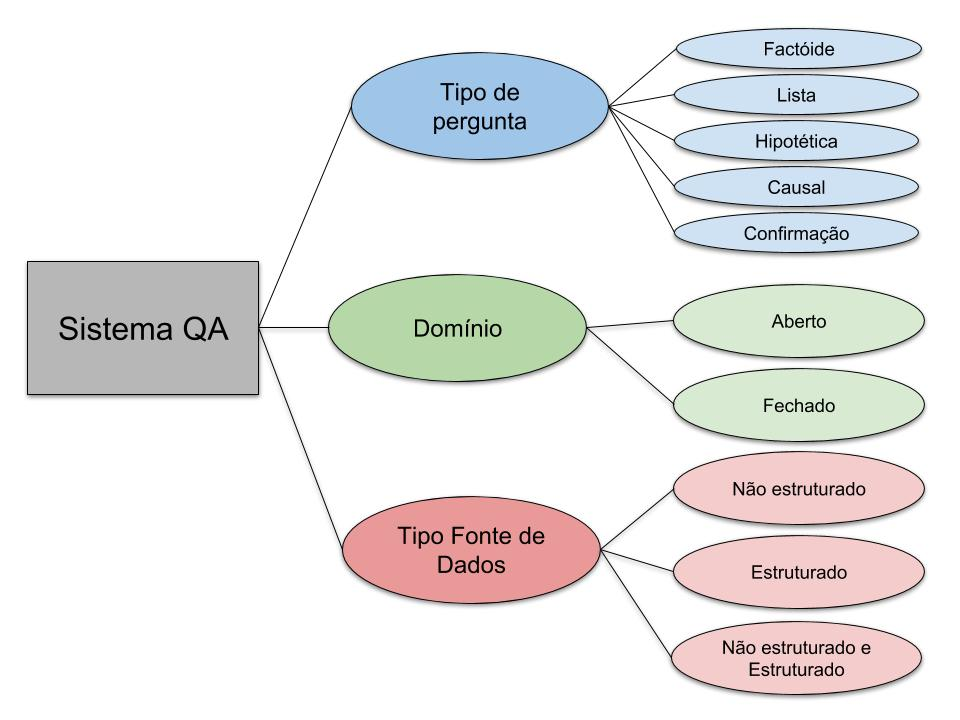
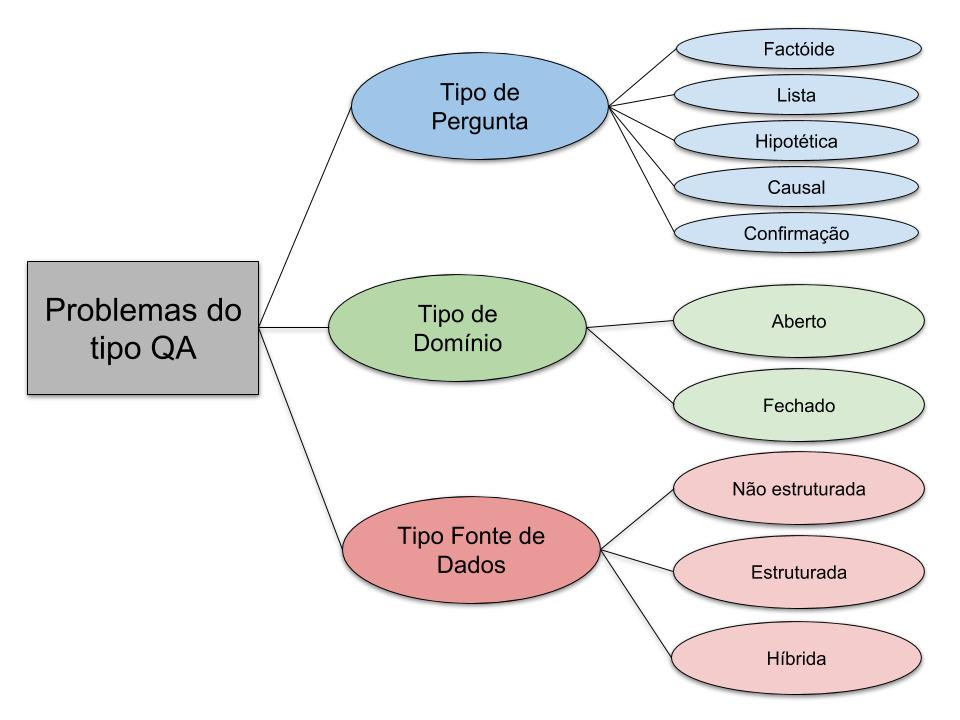
Updates from ShareLaTeX

diff --git a/main.tex b/main.tex
@@ -22,45 +22,74 @@
 
 \maketitle
 \begin{abstract}
-Apesar do advento de tecnologias não convencionais de bancos de dados (por exemplo, NoSQL), um grande volume de dados permanece armazenado em repositórios relacionais. Além disso, a necessidade de consumir dados de uma forma mais simples e amigável é exigida por usuários que desejam explorar suas informações com maior liberdade. A recente primavera das técnicas de Inteligência Artificial, com destaque para aquelas relacionadas à Processamento de Linguagem Natural, renovou as esperanças de obtenção de novos avanços nas interfaces de acesso a bancos de dados. Este trabalho apresenta um levantamento dos diferentes modelos de sistemas "Natural Language Interface to Database" (NLIDB), que são sistemas de consulta a bancos de dados relacionais à partir de pesquisas escritas em linguagem natural.
-
+Apesar do advento de tecnologias de bancos de dados não convencionais, por exemplo, NoSQL, um grande volume de dados permanece armazenado em repositórios relacionais. Além disso, a necessidade de consumir dados de uma forma mais simples e amigável é exigida por usuários que desejam explorar suas informações com maior liberdade. A recente primavera das técnicas de Inteligência Artificial, com destaque para aquelas relacionadas à Processamento de Linguagem Natural, renovou as esperanças de obtenção de novos avanços nas interfaces de acesso a bancos de dados. Este trabalho apresenta um levantamento dos diferentes modelos de sistemas "Natural Language Interface to Database" (NLIDB), que são sistemas de consulta a bancos de dados relacionais à partir de pesquisas escritas em linguagem natural.
 \end{abstract}
 
 \section{Introdução}
 
 Linguagem. Essa é uma das principais formas pela qual humanos expressam suas ideias, se comunicam e se inspiram \citep{harari2014sapiens}.\\
 
-Desde o surgimento dos computadores há o desejo de transferir a capacidade de comunicação às máquinas. Isso fica evidente através de computadores famosos do cinema, por exemplo, HAL-9000 \citep{hal9000}.\\
+Desde o surgimento dos computadores há o desejo de transferir a capacidade de comunicação às máquinas. 
+%Isso fica evidente através de computadores famosos do cinema, por exemplo, HAL-9000 \citep{hal9000}.\\
+
+VER MOTIVAÇÕES DE OUTROS TRABALHOS\\
 
 Um exemplo de tarefa que sempre se desejou transferir às máquinas é a capacidade de responder perguntas. Dentro da ciência da computação, a linha de estudo que investiga sistemas capazes de responder perguntas escritas em linguagem natural é chamada Question Answering (QA) \citep{hirschman2001natural}.\\
 
-Sistemas QA podem ser classificados de acordo com suas características. São exemplos de características de sistemas QA: domínio, tipo das perguntas suportadas e tipo de fonte de dados \citep{mishra2016survey, speech}.\\
+Problemas do tipo QA podem ser classificados de acordo com suas características, por exemplo: domínio das perguntas, tipo das perguntas e tipo das fontes de dados \citep{mishra2016survey, speech}.\\
 
-O domínio das perguntas pode ser aberto (ou geral) ou fechado (ou restrito). Sistemas com domínio aberto são sistemas que suportam diferentes domínios de informação, ou seja, não são específicos de um nicho de dados, por exemplo, dados de alunos de uma universidade. Por outro lado, sistemas com domínio fechado atendem um único escopo de informação.\\
+O domínio das perguntas pode ser aberto (geral) ou fechado (restrito). No caso do domínio aberto, as perguntas não são específicas de um nicho de conceitos ou entidades, elas são perguntas gerais. Por outro lado, no caso do domínio fechado, as perguntas são de um escopo determinado e restrito.\\
 
 Os tipos de perguntas podem ser factóide, lista, hipotética, causal e confirmação. O tipo factóide representa perguntas sobre fatos, por exemplo, "Quem é o presidente do Brasil?". O tipo lista pode ser visto como uma especialização do tipo factóide que suporta como resposta mais de um fato, por exemplo, "Quais foram os últimos 3 presidentes do Brasil?". O tipo hipotética considera uma pergunta baseada em um contexto hipotético, por exemplo, "O que aconteceria se ...". Nesse caso, não existem respostas precisas. O tipo causal não é uma pergunta relacionada a uma entidade específica mas são perguntas sobre explicações e elaborações, demandando uma maior capacidade de processamento de linguagem natural. Por fim, o tipo confirmação só admite perguntas que podem ser respondidas com sim ou não \citep{mishra2016survey}. Para o restante desse trabalho, os tipos de pergunta factóide e lista serão tratados como um único tipo e serão chamados de factóide.\\
 
 As tipos de fontes de dados podem ser estruturadas, não estruturadas ou estruturadas e não estruturadas. Um exemplo de fonte de dados estruturada é um banco relacional. Um exemplo de uma fonte não estruturada são arquivos textos. Sistemas que utilizam como fontes estruturadas e também não estruturadas formam um terceiro tipo.\\
 
-A figura \ref{fig:SistemaQA} apresenta uma visão gráfica das características de um Sistema QA apresentadas anteriormente.\\
+ESSE CARA É UM SURVEY DE UM JOURNAL  C Question Answering Systems: Survey and Trends DE 2015 MAS TEM 26 REFS. mas se concentra so na web\\
+
+A figura \ref{fig:SistemaQA} apresenta uma visão gráfica das características de problemas do tipo QA apresentadas anteriormente.\\
 
 %exemplo de figura
 \begin{figure}[h!]
 \centering
 \includegraphics[scale=0.3]{SistemaQA2.jpg}
-\caption{Características de um Sistema QA [REDESENHAR. FIGURA FEIA.]}
+\caption{Características de problemas do tipo QA [REDESENHAR. FIGURA FEIA.]}
 \label{fig:SistemaQA}
 \end{figure}
 
-Os tipos de fonte de dados têm forte influência sobre a arquitetura que será utilizada por uma solução para problemas de QA. De acordo com \citep{speech}, as soluções podem ser agrupadas em três tipos: "Information Retrieval" (IR), "Knowledge Based" (KB) ou NLIDB, e Híbridas (HIB), respectivamente para sistemas com fontes de dados não estruturadas, estruturadas e estruturadas + não estruturadas.\\
+Os tipos das fontes de dados acessadas têm forte influência sobre as arquiteturas que serão utilizadas na implementação dos sistemas que se propõem tratar problemas do tipo QA. De acordo com \citep{speech}, existem 3 principais paradigmas para tratar problemas do tipo QA: "Information Retrieval" (IR), "Knowledge Based" (KB) MORREU e PRECISO ENCAIXAR[ou NLIDB], e Híbridas (HIB), respectivamente para tipos de fontes de dados não estruturadas, estruturadas e estruturadas + não estruturadas.\\
 
-Apresentar os principais componentes da arquitetura de Sistemas IR \citep{kolomiyets2011survey}.\\
+O paradigma Information Retrieval (IR) ...\\
 
-Apresentar os principais componentes da arquitetura de Sistemas KB ou NLIDB\\
+São chamados de "Sistemas Question Answering Information Retrieval" (Sistemas QA-IR) os sistemas que se propõem tratar problemas do tipo QA e utilizam o paradigma IR para responder perguntas escritas em linguagem natural a partir de fontes de dados não estruturadas.\\
+
+Apresentar os principais componentes da arquitetura de Sistemas IR \citep{kolomiyets2011survey}. ACHEI ESSE ARTIGO QUE É DE 2017 E DE UM PERIÓDICO A1 (KNOWLEDGE-BASED SYSTEMS) COM APENAS 2 REFERÊNCIAS: A study about the future evaluation of Question-Answering systems (In this paper, we overview the main QA evaluations over free text, paying special attention to the changes encouraged at such campaigns). DAR UMA LIDA NELE!\\
+
+O paradigma Knowledge Based (KB) ...\\
+
+São chamados de "Sistemas Question Answering Knowledge Based" (Sistemas QA-KB) os sistemas que se propõem tratar problemas do tipo QA e utilizam o paradigma KB para responder perguntas escritas em linguagem natural a partir de fontes de dados estruturadas. FALAR DA CONVERSÃO PARA FORMA LÓGICA\\
+
+Apresentar os principais componentes da arquitetura de Sistemas KB\\
+
+Uma especialização dos sistemas QA-KB são os sistemas Natural Language Interface to Database (NLIDB) que respondem perguntas escritas em linguagem natural a partir de bases de dados estruturadas relacionais [REF]. O estudo dos sistemas NLIDB é o foco desse trabalho.\\
+
+O paradigma Híbrido (HIB) ...\\
+
+São chamados de "Sistemas Question Answering Híbridos" (Sistemas QA-HIB) os sistemas que se propõem tratar problemas do tipo QA e utilizam o paradigma HIB para responder perguntas escritas em linguagem natural a partir de fontes de dados estruturadas e não estruturadas.\\
 
 Apresentar os principais componentes da arquitetura de Sistemas Híbridos.\\
 
-O objetivo desse trabalho é fazer um levantamento dos sistemas de QA que acessam bases de dados estruturadas (Sistemas KB ou NLIDB) para responder as perguntas do tipo factóide informadas pelos usuários em linguagem natural, independente do tipo de domínio (aberto ou fechado). A seção \ref{sistemasKB} falará sobre os diferentes tipos de sistemas QA KB. A seção \ref{exemplosSistemasKB} falará sobre exemplos de sistemas QA KB. Por fim, a seção \ref{conclusoes} apresenta as conclusões.
+A figura \ref{fig:TiposDeSistemasQA} apresenta uma visão consolidada dos diferentes tipos de sistemas QA discutidos até agora.\\
+
+\begin{figure}[h!]
+\centering
+\includegraphics[scale=0.3]{TiposDeSistemasQA.jpg}
+\caption{Tipos de sistemas QA [REDESENHAR. FIGURA FEIA.]}
+\label{fig:TiposDeSistemasQA}
+\end{figure}
+
+O objetivo desse trabalho é fazer um levantamento dos sistemas NLIDB. A seção \ref{sistemasKB} falará sobre os diferentes tipos de PROBLEMA (TROCAR EM TODAS AS PARTES DO TEXTO) QA KB. A seção \ref{exemplosSistemasKB} falará sobre exemplos de sistemas QA KB. Por fim, a seção \ref{conclusoes} apresenta as conclusões.
+
+%O objetivo desse trabalho é fazer um levantamento dos sistemas de QA que acessam bases de dados estruturadas (Sistemas KB ou NLIDB) para responder as perguntas do tipo factóide informadas pelos usuários em linguagem natural, independente do tipo de domínio (aberto ou fechado). A seção \ref{sistemasKB} falará sobre os diferentes tipos de PROBLEMA (TROCAR EM TODAS AS PARTES DO TEXTO) QA KB. A seção \ref{exemplosSistemasKB} falará sobre exemplos de sistemas QA KB. Por fim, a seção \ref{conclusoes} apresenta as conclusões.
 
 
 %É possível descrever sistemas QA que respondem factóides a partir de suas características, por exemplo, domínio da pergunta e tipo de fonte de dados.\\
@@ -92,52 +121,100 @@ O objetivo desse trabalho é fazer um levantamento dos sistemas de QA que acessa
 %===========================================================
 %===========================================================
 
-\section{Knowledge Based QA Systems ou Sistemas NLIDB\label{sistemasKB}}
+\section{Acho que preciso de uma seção sobre metodologia\label{metodologia}}
+
+%\section{Sistemas Question Answering Knowledge Based (QA-KB)\label{sistemasKB}}
+
+\section{Sistemas Natural Language Interface to Databases (NLIDB)\label{sistemasNLIDB}}
 
 O trabalho \citep{androutsopoulos1995natural} é uma introdução para o problema \textit{Natural Language Interface to DataBases} (NLIDB). Ele apresenta algumas vantagens e desvantagens dos modelos NLIDB quando comparados com linguagens formais de consultas a bancos de dados, por exemplo, SQL, interfaces baseadas em formulários e interfaces gráficas. Ele também discute questões arquiteturais e de portabilidade. \\
 
-Sistemas KB QA são sistemas que recebem consultas em linguagem natural e retornam resultados a partir de fontes de dados estruturadas. Implementações desse tipo de sistemas podem ser classificadas como: baseado em regras, supervisionados e semi-supervisionados\citep{speech}.\\
+Sistemas NLIDB recebem consultas em linguagem natural e retornam resultados a partir de fontes de dados estruturadas relacionais. Implementações desse tipo de sistemas podem ser classificadas como: baseado em gramática, baseado em regras, baseado em síntese de programas e baseado em redes neurais\citep{speech}.\\
 
 [Existe algo para mais de uma tabela? Pode ser um diferencial! Talvez possa falar aqui que uma limitação é que todas as abordagens utilizam uma única tabela.]\\
 
-A figura \ref{fig:SistemaKBNLIDB} apresenta tipos de implementações/soluções de sistemas QA KB ou NLIDB discutidas anteriormente.
+[LER ESSE ARTIGO
+Knowledge-based question answering using the semantic embedding space https://www.sciencedirect.com/science/article/pii/S0957417415004698]
+
+
+A figura \ref{fig:SistemaNLIDB} apresenta tipos de implementações/soluções de sistemas NLIDB discutidas anteriormente.
 
 %exemplo de figura
 \begin{figure}[h!]
 \centering
-\includegraphics[scale=0.3]{SistemaKBNLIDB.jpg}
-\caption{Tipos de implementações/soluções de sistemas KB ou NLIDB [REDESENHAR. FIGURA FEIA.]}
-\label{fig:SistemaKBNLIDB}
+\includegraphics[scale=0.7]{NLIDB.JPG}
+\caption{Tipos de implementações/soluções de sistemas NLIDB [REDESENHAR. FIGURA FEIA.]}
+\label{fig:SistemaNLIDB}
 \end{figure}
 
-\subsection{Sistemas KB QA baseados em regras}
+\subsection{Sistemas NLIDB baseados em gramáticas}
 
-Explicar o que são sistemas baseados em regras.
+Explicar o que são sistemas NLIDB baseados em gramáticas.
 
-\subsection{Sistemas KB QA supervisionados}
+\subsection{Sistemas NLIDB baseados em regras}
 
-Explicar o que são sistemas supervisionados.\\
+Explicar o que são sistemas NLIDB baseados em regras\\
 
-Falar das soluções baseadas em síntese de programas [ACREDITO QUE NÃO PRECISA CRIAR UMA SUBSEÇÃO PARA ISSO].\\
+\subsection{Sistemas NLIDB baseados em Síntese de Programas}
+
+Explicar o que são sistemas NLIDB baseados em Síntese de Programas\\
+
+\subsection{Sistemas NLIDB baseados em Redes Neurais}
+
+Explicar o que são sistemas NLIDB baseados em Redes Neurais\\
+
+
+TODO0: PEGAR ARTIGOS DO GIT
+
+TODO1: Escrever o que li sobre síntese de programas para criar um ou dois parágrafos.
+
+\citep{gulwani2017program}
+\citep{yaghmazadeh2017sqlizer}
+
+https://alexpolozov.com/blog/program-synthesis-2018/
+Survey de síntese de programas: https://www.microsoft.com/en-us/research/wp-content/uploads/2017/10/program_synthesis_now.pdf
+
+https://homes.cs.washington.edu/~bornholt/post/synthesis-explained.html
+
+
+
+
+
+
+
 
 Falar das soluções baseadas em redes neurais (também chamados de NL2SQL e Text-to-SQL) [ACREDITO QUE NÃO PRECISA CRIAR UMA SUBSEÇÃO PARA ISSO].\\
 
 [Olhar blog de síntese de programas da Aline. quais as relações com as redes neurais? Existe SP co ML e sem ML.]. 1 - program synthesis: https://alexpolozov.com/blog/program-synthesis-2018/ ele fala do survey que eu mencionei, e ele menciona o dataset WikiSQL, na parte de datasets.
 
-\subsection{Sistemas KB QA semi-supervisionados}
 
-Explicar o que são sistemas semi-supervisionados.
 
 %===========================================================
 %===========================================================
 %===========================================================
 %===========================================================
 
-\section{Exemplos de Sistema KB QA\label{exemplosSistemasKB}}
+\section{Levantamento de Sistemas NLIDB\label{exemplosSistemasNLIDB}}
 
-A seção \ref{sistemasKB} apresentou os tipos de sistemas QA KB, que são IR, KB e Híbridos. O objetivo dessa seção é apresentar exemplos de sistemas KB.\\
+A seção \ref{sistemasNLIDB} apresentou os tipos de sistemas NLIDB, que são baseados em gramáticas, regras, síntese de programas e redes neurais. O objetivo dessa seção é apresentar exemplos de sistemas NLIDB.\\
 
-\subsection{Trabalhos antigos [NOME ESTÁ RUIM, MAS PRECISO CRIAR SUBSEÇÃO PQ TEXTO ESTÁ GRANDE]}
+As seções \ref{velhos} e \ref{novos} apresentarão com detalhes os sistemas descritos na tabela abaixo \ref{table:exemplos}.
+
+%https://www.tablesgenerator.com/
+\begin{table}[]
+\centering
+\begin{tabular}{|c|c|c|c|c|}
+\hline
+a & a & a & a & a \\ \hline
+b & b & b & b & b \\ \hline
+c & c & c & c & c \\ \hline
+d & d & d & d & d \\ \hline
+\end{tabular}
+\caption{Tabela comparativa das soluções NLIDB}
+\label{table:exemplos}
+\end{table}
+
+\subsection{Trabalhos NLIDB antigos\label{velhos}}
 
 Protótipos de sistemas NLIDB apareceram no final dos anos 60. Nessa época, o NLIDB mais conhecido era LUNAR \citep{woods1973progress}, uma interface em linguagem natural para um banco de dados de análises químicas de rochas lunares. Esse sistema é concentrado em um domínio de informação. Era baseado em regras, sup ou semi-sup?\\
 
@@ -173,7 +250,7 @@ O trabalho \citep{li2014constructing} propõe o modelo NaLIR \\
 
 A Microsoft já teve seu produto NLIDB, chamado "Microsoft English Query", mas ele foi descontinuado em 2008 (https://www.infoq.com/news/English-Query-Discontinued).\\
 
-\subsection{Trabalhos NOVOS [NOME ESTÁ RUIM, MAS PRECISO CRIAR SUBSEÇÃO PQ TEXTO ESTÁ GRANDE]}
+\subsection{Trabalhos NLIDB NOVOS\label{novos}}
 
 Mais recentemente novos modelos supervisionados baseados em Síntese de Programas e em Redes Neurais vem sendo propostos. Esses modelos serão detalhados a seguir.\\
 
@@ -205,16 +282,16 @@ O trabalho \citep{2018arXiv180703100W} detecta e exclui programas falhos durante
 
 O trabalho \citep{shi2018incsql} atualmente é o primeiro do ranking WikiSQL (18/09/2018). Ele ainda é um relatório técnico em elaboração. Ele citou o trabalho \citep{finegan2018improving} (ACL 2018) que propõe uma metodologia de avaliação para problemas chamados de \textit{Text-to-SQL}.\\
 
-\subsection{Tabela Resumo}
-
-Tabela abaixo consolida as características dos sistemas apresentados nessa seção.
-
 %===========================================================
 %===========================================================
 %===========================================================
 %===========================================================
 
 \section{Conclusões\label{conclusoes}}
+
+PROBLEMAS EM ABERTO\\
+
+TENDÊNCIAS\\
 
 Criar modelo para considerar mais de uma tabela?\\
 
